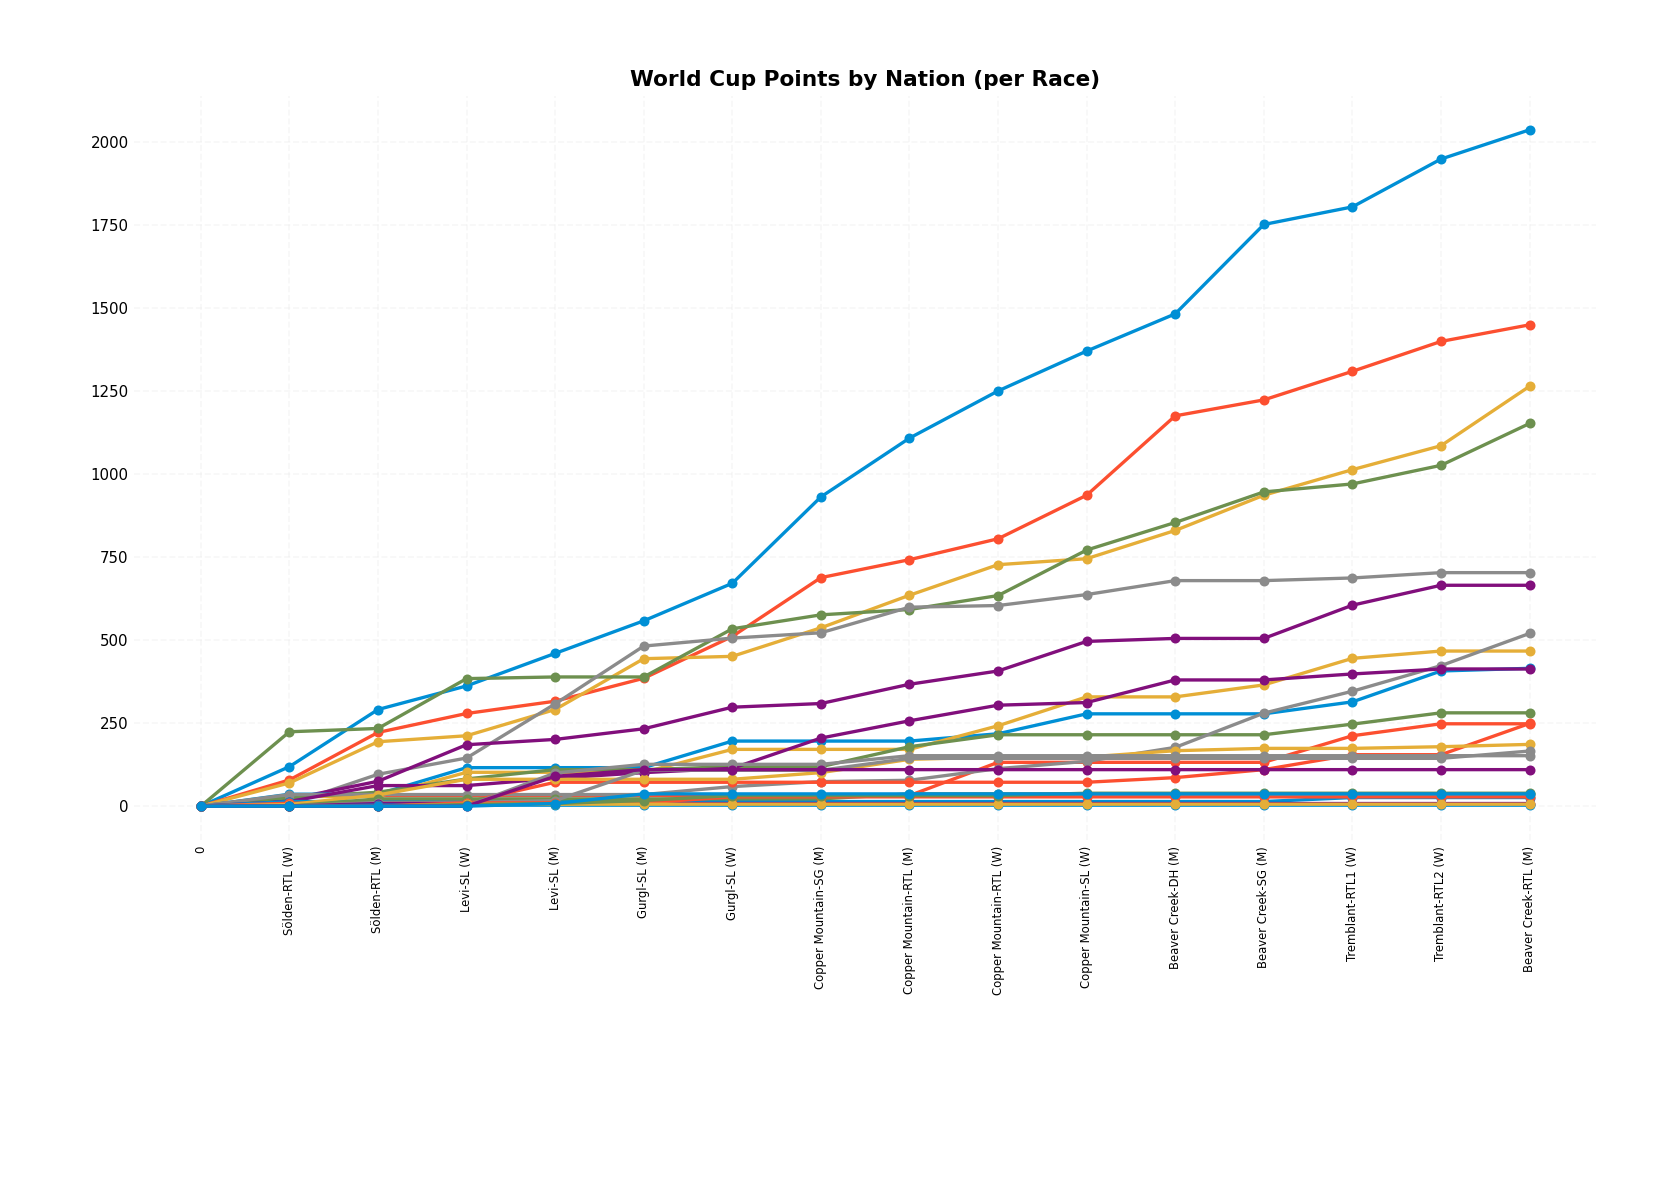
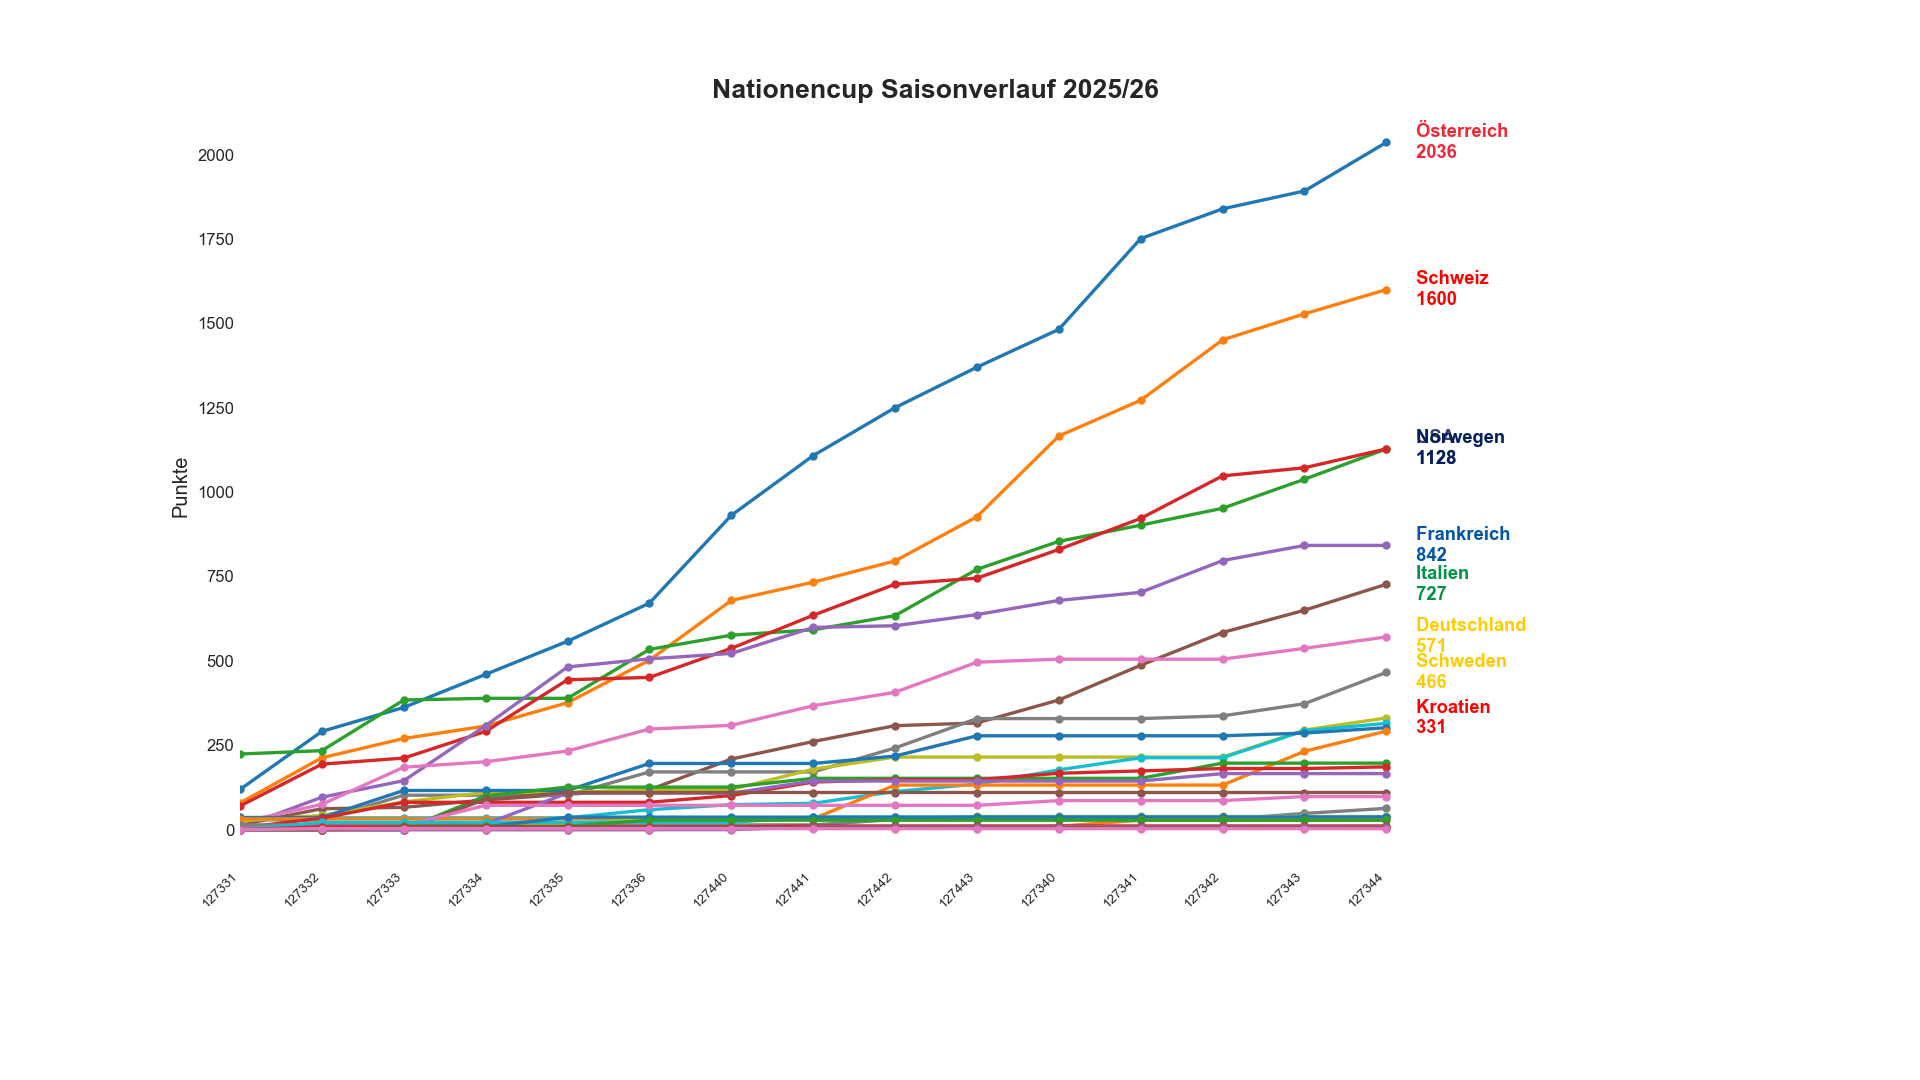
Projekt solange weiter entwickeln, dass jetzt zumindest ein Graph gezeichnet wird.

diff --git a/ski_nationencup_25-26.py b/ski_nationencup_25-26.py
@@ -8,8 +8,8 @@ import sys
 import json
 
 # --- KONFIGURATION ---
-'''EXCEL_PATH = r'C:\Users\summe\Documents\Office\Excel\ski_alpin_verlaeufe.xlsx'
-SHEET_NAME = '25-26_Py_exp'''
+# EXCEL_PATH = r'C:\Users\summe\Documents\Office\Excel\ski_alpin_verlaeufe.xlsx'
+# SHEET_NAME = '25-26_Py_exp'
 BASE_IMAGE_PATH = r'C:\Users\summe\Bilder\Sport\ski\manuel_feller.avif'
 OUTPUT_IMAGE_PATH = r'C:\Users\summe\Bilder\Sport\ski\ski_nationencup_25-26.png'
 file_path = "./results.json"
@@ -17,7 +17,30 @@ file_path = "./results.json"
 # Wo soll das Diagramm auf dem Bild platziert werden? (Pixel Koordinaten)
 CHART_POS_X = -150
 CHART_POS_Y = 350
-CHART_SIZE = (1700, 1300) # Breite, Höhe des Diagramms
+CHART_SIZE = (1900, 1300) # Breite, Höhe des Diagramms
+
+# Mapping von FIS-Code zu vollem Namen (für deine "wichtige" Liste)
+NATION_MAP = {
+    "AUT": "Österreich", "SUI": "Schweiz", "NOR": "Norwegen", 
+    "FRA": "Frankreich", "USA": "USA", "GER": "Deutschland", 
+    "ITA": "Italien", "SWE": "Schweden", "CRO": "Kroatien",
+    "ALB": "Albanien", "CAN": "Kanada", "SLO": "Slowenien"
+}
+
+NATION_COLORS = {
+    "Österreich": "#ED2939", # Rot
+    "Schweiz": "#FF0000",    # Rot (etwas anders) oder Weiß im Darkmode
+    "Norwegen": "#00205B",   # Blau
+    "Frankreich": "#0055A4", # Blau
+    "USA": "#3C3B6E",        # Dunkelblau
+    "Deutschland": "#FFCC00",# Gold/Gelb (Schwarz sieht man schlecht)
+    "Italien": "#009246",    # Grün
+    "Schweden": "#FECC00",   # Gelb
+    "Kroatien": "#FF0000",
+}
+
+# Liste der Nationen, die beschriftet werden sollen (Namen müssen zum Mapping oben passen)
+wichtige = ["Österreich", "Schweiz", "Norwegen", "Frankreich", "USA", "Deutschland", "Italien", "Schweden", "Kroatien"]
 
 def update_wallpaper():
     # print("Lese Excel Daten...", end="")
@@ -46,100 +69,125 @@ def update_wallpaper():
         print("✅ Daten erfolgreich geladen!\n")
 
         data_for_df = []
+        race_labels = []
 
         for entry in raw_data:
             # entry sieht so aus: {'race_id': 123, 'points': {'AUT': 10...}}
             row = entry['points'].copy() # Startet mit {'AUT': 10...}
-            row['RaceID'] = entry['race_id'] # Fügt ID hinzu: {'AUT': 10, 'RaceID': 123}
             data_for_df.append(row)
+            race_labels.append(str(entry['race_id']))
 
         df = pd.DataFrame(data_for_df)
-        if 'RaceID' in df.columns:
-            df.set_index('RaceID', inplace=True)
         df = df.fillna(0)
+        df = df.cumsum()
+        
+        x_axis = range(len(df))
+
+        last_row = df.iloc[-1]
+        sorted_cols = last_row.sort_values(ascending=False).index
+        df = df[sorted_cols]
+        nations = df.columns.tolist()
 
         # 2. Plot vorbereiten
-        plt.figure(figsize=(14, 10), dpi=120)
-        plt.style.use('fivethirtyeight')
-        wichtige = ["Österreich", "Schweiz", "Norwegen", "Frankreich", "USA", "Deutschland", "Italien", "Schweden", "Albanien", "Kroatien"]
+        plt.figure(figsize=(16, 9), dpi=120)
+        plt.style.use('seaborn-v0_8-darkgrid')
+        plt.grid(True, which='major', axis='y', alpha=0.3, linestyle='--')
+        plt.grid(False, axis='x')
 
         # Jede Nation als eigene Linie zeichnen
-        for nation in nations:
+        for code in nations:
+            full_name = NATION_MAP.get(code, code)
+
             plt.plot(
-                races,
-                df[nation],
+                x_axis,
+                df[code],
                 linewidth=2,
                 marker="o",
-                markersize=5,
+                markersize=4,
+                alpha=1.0,
+                label=full_name if full_name in wichtige else None
             )
 
         # Titel
-        plt.title("World Cup Points by Nation (per Race)", fontsize=13, fontweight="bold")
-
+        plt.title("Nationencup Saisonverlauf 2025/26", fontsize=16, fontweight="bold")
+        plt.ylabel("Punkte", fontsize=12)
         # Achsen
-        plt.xticks(rotation=90, fontsize=7)
-        plt.yticks(fontsize=9)
-        plt.grid(True, alpha=0.15, linestyle="--")
-        plt.box(False)
+        plt.xticks(ticks=x_axis, labels=race_labels, rotation=45, fontsize=8, ha='right')
+        plt.xlim(left=0, right=len(df) + 2) 
 
-        for nation in wichtige:
-            y = df[nation].iloc[-1]      # letzter Wert der Nation
-            x = len(races) - 1           # letzte X-Position (da Kategorien)
-            plt.text(
-                x + 0.2,                 # etwas rechts neben der Linie
-                y,
-                nation,
-                fontsize=9,
-                va="center",
-                ha="left",
-                fontweight="bold"
-            )
+        for code in nations:
+            full_name = NATION_MAP.get(code, code)
+            if full_name in wichtige:
+                y_pos = df[code].iloc[-1]
+                x_pos = len(df) - 1
+                
+                # Farbe holen (gleich wie Linie)
+                col = NATION_COLORS.get(full_name, "black")
+                
+                plt.text(
+                    x_pos + 0.3, y_pos, 
+                    f" {full_name}\n {int(y_pos)}", 
+                    fontsize=11, 
+                    va="center", 
+                    fontweight="bold",
+                    color=col
+                )
 
         # Manuelle Randeinstellung statt tight_layout()
-        plt.subplots_adjust(bottom=0.30, top=0.92)
+        plt.subplots_adjust(bottom=0.20, top=0.90, right=0.85)
 
         plt.savefig("temp_chart.png", transparent=True)
         plt.close()
 
         # 3. Wallpaper-Bild einbetten
-        base = Image.open(BASE_IMAGE_PATH).convert("RGBA")
-        chart = Image.open("temp_chart.png").convert("RGBA")
+        print("Bild generieren...", end="")
+        if os.path.exists(BASE_IMAGE_PATH):
+            base = Image.open(BASE_IMAGE_PATH).convert("RGBA")
+            chart = Image.open("temp_chart.png").convert("RGBA")
 
-        chart = chart.resize(CHART_SIZE, Image.Resampling.LANCZOS)
-
-        base.paste(chart, (CHART_POS_X, CHART_POS_Y), chart)
-
-        base.save(OUTPUT_IMAGE_PATH, "PNG")
-        print(" Bild generiert.", end="")
-
-        # 4. Wallpaper setzen
-        abs_path = os.path.abspath(OUTPUT_IMAGE_PATH)
-        ctypes.windll.user32.SystemParametersInfoW(20, 0, abs_path, 3)
-        print(" Wallpaper aktualisiert!")
+            chart = chart.resize(CHART_SIZE, Image.Resampling.LANCZOS)
+            cw, ch = chart.size
+            box = (CHART_POS_X, CHART_POS_Y, CHART_POS_X + cw, CHART_POS_Y + ch)
+            base.paste(chart, (CHART_POS_X, CHART_POS_Y), chart)
+            base.save(OUTPUT_IMAGE_PATH, "PNG")
+            
+            # 4. Wallpaper setzen
+            abs_path = os.path.abspath(OUTPUT_IMAGE_PATH)
+            ctypes.windll.user32.SystemParametersInfoW(20, 0, abs_path, 3)
+            print(" Wallpaper aktualisiert!")
+        else:
+            print(f"\n[FEHLER] Basis-Bild nicht gefunden unter: {BASE_IMAGE_PATH}")
 
     except Exception as e:
         print(f"\n[FEHLER] {e}")
+        import traceback
+        traceback.print_exc() # Hilft beim Debuggen
 
 
 if __name__ == "__main__":
     print("--- SKI WORLD CUP WALLPAPER ENGINE GESTARTET ---")
-    print(f"Überwache: {EXCEL_PATH}")
+    print(f"Überwache: {file_path}")
 
-    last_mtime = 0
+    update_wallpaper()
+
+    last_mtime = os.path.getmtime(file_path) if os.path.exists(file_path) else 0
 
     while True:
         try:
-            current_mtime = os.path.getmtime(EXCEL_PATH)
+            if os.path.exists(file_path):
+                current_mtime = os.path.getmtime(file_path)
 
-            if current_mtime != last_mtime:
-                time.sleep(1)
-                update_wallpaper()
-                last_mtime = current_mtime
+                if current_mtime != last_mtime:
+                    print("\nÄnderung erkannt! Aktualisiere...")
+                    time.sleep(1) # Kurz warten falls Schreibvorgang noch läuft
+                    update_wallpaper()
+                    last_mtime = current_mtime
 
             time.sleep(5)
 
         except KeyboardInterrupt:
+            print("\nBeendet.")
             sys.exit()
-        except FileNotFoundError:
-            print("Excel Datei nicht gefunden! Warte...")
+        except Exception as e:
+            print(f"Loop Fehler: {e}")
             time.sleep(10)
